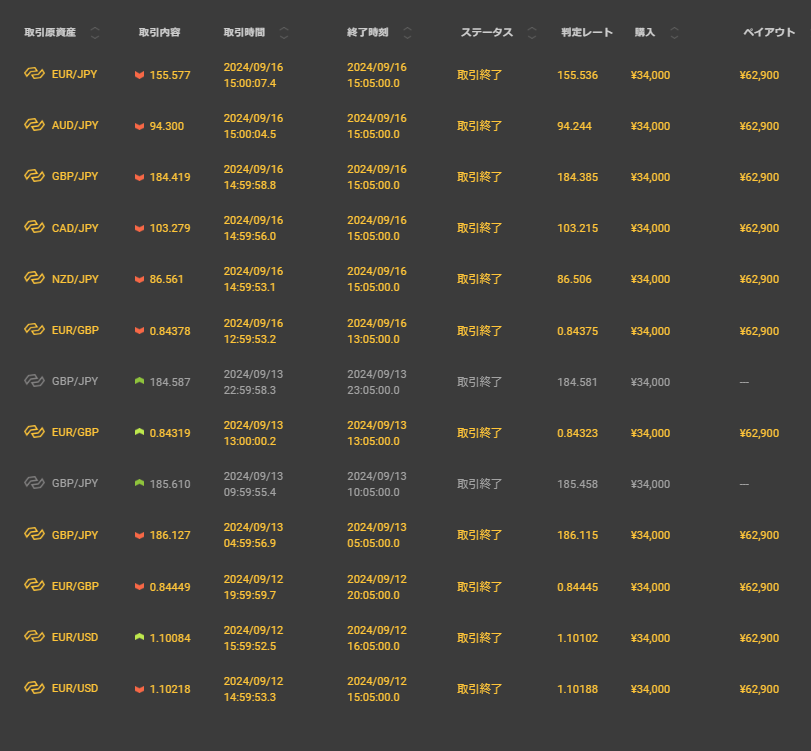
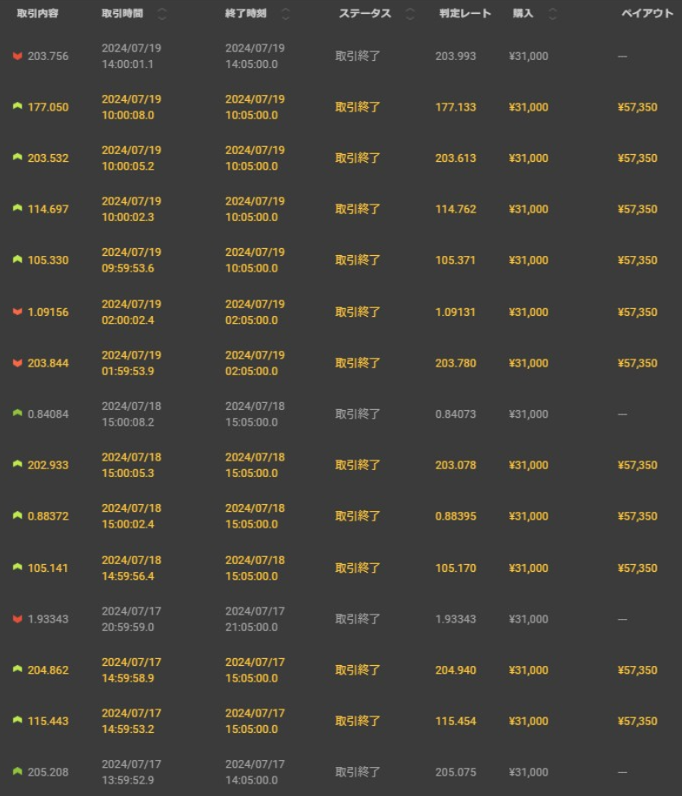
Update payout result evidence

diff --git a/index.html b/index.html
@@ -233,33 +233,33 @@
             <p>公開している運用結果の一例です。画像をクリックすると拡大して確認できます。</p>
           </div>
           <div class="evidence-gallery payout-gallery">
-            <a class="gallery-card reveal" href="assets/payout-result.jpg" target="_blank" rel="noopener">
+            <a class="gallery-card reveal" href="assets/payout-result.png" target="_blank" rel="noopener">
               <div class="gallery-image dark">
-                <img src="assets/payout-result.jpg" alt="取引履歴・ペイアウト実績 1" loading="lazy">
+                <img src="assets/payout-result.png" alt="取引履歴・ペイアウト実績 1" loading="lazy">
                 <span class="zoom-label">拡大表示</span>
               </div>
-              <strong>取引履歴 01</strong>
+              <strong>取引履歴 01　	+249,900円</strong>
             </a>
             <a class="gallery-card reveal" href="assets/payout-result%20(1).png" target="_blank" rel="noopener">
               <div class="gallery-image dark">
                 <img src="assets/payout-result%20(1).png" alt="取引履歴・ペイアウト実績 2" loading="lazy">
                 <span class="zoom-label">拡大表示</span>
               </div>
-              <strong>取引履歴 02</strong>
+              <strong>取引履歴 02　+165,850円</strong>
             </a>
             <a class="gallery-card reveal" href="assets/payout-result%20(2).png" target="_blank" rel="noopener">
               <div class="gallery-image dark">
                 <img src="assets/payout-result%20(2).png" alt="取引履歴・ペイアウト実績 3" loading="lazy">
                 <span class="zoom-label">拡大表示</span>
               </div>
-              <strong>取引履歴 03</strong>
+              <strong>取引履歴 03　	+174,000円</strong>
             </a>
             <a class="gallery-card reveal" href="assets/payout-result%20(3).png" target="_blank" rel="noopener">
               <div class="gallery-image dark">
                 <img src="assets/payout-result%20(3).png" alt="取引履歴・ペイアウト実績 4" loading="lazy">
                 <span class="zoom-label">拡大表示</span>
               </div>
-              <strong>取引履歴 04</strong>
+              <strong>取引履歴 04　+117,000円</strong>
             </a>
           </div>
         </div>
